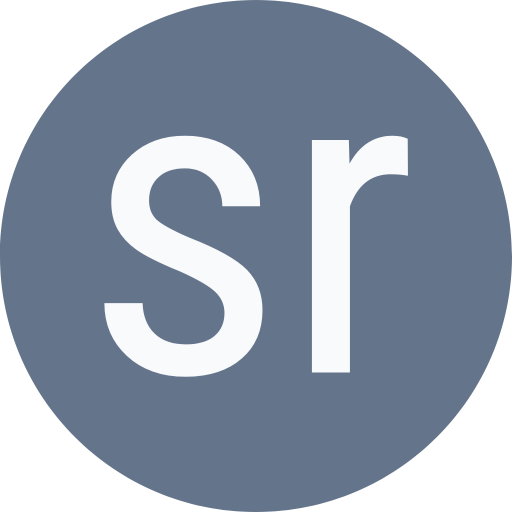
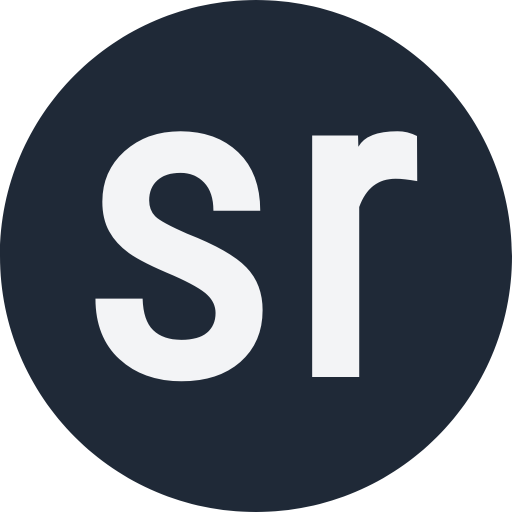
deploy: ba5cf00d9a8d961c558e314631d93ebb83569694

diff --git a/index.html b/index.html
@@ -9,7 +9,7 @@
 <meta name=keywords content="[Portfolio Sebastián Risco]">
 <link rel=canonical href=https://srisco.dev/>
 <link rel=alternate type=application/rss+xml href=/index.xml title=srisco.dev>
-<link type=text/css rel=stylesheet href=/css/schemes/cool-gray.min.f5af45aebd660d2d65c1b8c7e8b77217b06ec1193387c33ff17519a2ebd40be807b1db3cc9d62a7c23063adcc409c4afc68c8964781a113346af349a86215e9b.css integrity="sha512-9a9Frr1mDS1lwbjH6LdyF7BuwRkzh8M/8XUZouvUC+gHsds8ydYqfCMGOtzECcSvxoyJZHgaETNGrzSahiFemw==">
+<link type=text/css rel=stylesheet href=/css/schemes/cool-gray.min.1fa9cfe6ea431f51b6669ad59d531a840711f25edf67f90d0227253371e1da49fdcc25506150e39fb99ac2c95a6012b2c4bbdd6c41b841b186419cbd7e115768.css integrity="sha512-H6nP5upDH1G2ZprVnVMahAcR8l7fZ/kNAiclM3Hh2kn9zCVQYVDjn7mawslaYBKyxLvdbEG4QbGGQZy9fhFXaA==">
 <link type=text/css rel=stylesheet href=/css/compiled/main.min.c7290b6ac74545a6de646d08ba3464ec3c13dadadc7f19d2445e0ab22286078236df7c5645eaac6cb086d207f9f2e077c66fd9e542f30b735865adf01b858059.css integrity="sha512-xykLasdFRabeZG0IujRk7DwT2trcfxnSRF4KsiKGB4I233xWReqsbLCG0gf58uB3xm/Z5ULzC3NYZa3wG4WAWQ==">
 <link rel=apple-touch-icon sizes=180x180 href=/apple-touch-icon.png>
 <link rel=icon type=image/png sizes=32x32 href=/favicon-32x32.png>

diff --git a/publications/index.html b/publications/index.html
@@ -8,7 +8,7 @@
 <meta name=description content>
 <meta name=keywords content="[Portfolio Sebastián Risco]">
 <link rel=canonical href=https://srisco.dev/publications/>
-<link type=text/css rel=stylesheet href=/css/schemes/cool-gray.min.f5af45aebd660d2d65c1b8c7e8b77217b06ec1193387c33ff17519a2ebd40be807b1db3cc9d62a7c23063adcc409c4afc68c8964781a113346af349a86215e9b.css integrity="sha512-9a9Frr1mDS1lwbjH6LdyF7BuwRkzh8M/8XUZouvUC+gHsds8ydYqfCMGOtzECcSvxoyJZHgaETNGrzSahiFemw==">
+<link type=text/css rel=stylesheet href=/css/schemes/cool-gray.min.1fa9cfe6ea431f51b6669ad59d531a840711f25edf67f90d0227253371e1da49fdcc25506150e39fb99ac2c95a6012b2c4bbdd6c41b841b186419cbd7e115768.css integrity="sha512-H6nP5upDH1G2ZprVnVMahAcR8l7fZ/kNAiclM3Hh2kn9zCVQYVDjn7mawslaYBKyxLvdbEG4QbGGQZy9fhFXaA==">
 <link type=text/css rel=stylesheet href=/css/compiled/main.min.c7290b6ac74545a6de646d08ba3464ec3c13dadadc7f19d2445e0ab22286078236df7c5645eaac6cb086d207f9f2e077c66fd9e542f30b735865adf01b858059.css integrity="sha512-xykLasdFRabeZG0IujRk7DwT2trcfxnSRF4KsiKGB4I233xWReqsbLCG0gf58uB3xm/Z5ULzC3NYZa3wG4WAWQ==">
 <link rel=apple-touch-icon sizes=180x180 href=/apple-touch-icon.png>
 <link rel=icon type=image/png sizes=32x32 href=/favicon-32x32.png>

diff --git a/404.html b/404.html
@@ -8,7 +8,7 @@
 <meta name=description content>
 <meta name=keywords content="[Portfolio Sebastián Risco]">
 <link rel=canonical href=https://srisco.dev/404.html>
-<link type=text/css rel=stylesheet href=/css/schemes/cool-gray.min.f5af45aebd660d2d65c1b8c7e8b77217b06ec1193387c33ff17519a2ebd40be807b1db3cc9d62a7c23063adcc409c4afc68c8964781a113346af349a86215e9b.css integrity="sha512-9a9Frr1mDS1lwbjH6LdyF7BuwRkzh8M/8XUZouvUC+gHsds8ydYqfCMGOtzECcSvxoyJZHgaETNGrzSahiFemw==">
+<link type=text/css rel=stylesheet href=/css/schemes/cool-gray.min.1fa9cfe6ea431f51b6669ad59d531a840711f25edf67f90d0227253371e1da49fdcc25506150e39fb99ac2c95a6012b2c4bbdd6c41b841b186419cbd7e115768.css integrity="sha512-H6nP5upDH1G2ZprVnVMahAcR8l7fZ/kNAiclM3Hh2kn9zCVQYVDjn7mawslaYBKyxLvdbEG4QbGGQZy9fhFXaA==">
 <link type=text/css rel=stylesheet href=/css/compiled/main.min.c7290b6ac74545a6de646d08ba3464ec3c13dadadc7f19d2445e0ab22286078236df7c5645eaac6cb086d207f9f2e077c66fd9e542f30b735865adf01b858059.css integrity="sha512-xykLasdFRabeZG0IujRk7DwT2trcfxnSRF4KsiKGB4I233xWReqsbLCG0gf58uB3xm/Z5ULzC3NYZa3wG4WAWQ==">
 <link rel=apple-touch-icon sizes=180x180 href=/apple-touch-icon.png>
 <link rel=icon type=image/png sizes=32x32 href=/favicon-32x32.png>

diff --git a/about/index.html b/about/index.html
@@ -8,7 +8,7 @@
 <meta name=description content>
 <meta name=keywords content="[Portfolio Sebastián Risco]">
 <link rel=canonical href=https://srisco.dev/about/>
-<link type=text/css rel=stylesheet href=/css/schemes/cool-gray.min.f5af45aebd660d2d65c1b8c7e8b77217b06ec1193387c33ff17519a2ebd40be807b1db3cc9d62a7c23063adcc409c4afc68c8964781a113346af349a86215e9b.css integrity="sha512-9a9Frr1mDS1lwbjH6LdyF7BuwRkzh8M/8XUZouvUC+gHsds8ydYqfCMGOtzECcSvxoyJZHgaETNGrzSahiFemw==">
+<link type=text/css rel=stylesheet href=/css/schemes/cool-gray.min.1fa9cfe6ea431f51b6669ad59d531a840711f25edf67f90d0227253371e1da49fdcc25506150e39fb99ac2c95a6012b2c4bbdd6c41b841b186419cbd7e115768.css integrity="sha512-H6nP5upDH1G2ZprVnVMahAcR8l7fZ/kNAiclM3Hh2kn9zCVQYVDjn7mawslaYBKyxLvdbEG4QbGGQZy9fhFXaA==">
 <link type=text/css rel=stylesheet href=/css/compiled/main.min.c7290b6ac74545a6de646d08ba3464ec3c13dadadc7f19d2445e0ab22286078236df7c5645eaac6cb086d207f9f2e077c66fd9e542f30b735865adf01b858059.css integrity="sha512-xykLasdFRabeZG0IujRk7DwT2trcfxnSRF4KsiKGB4I233xWReqsbLCG0gf58uB3xm/Z5ULzC3NYZa3wG4WAWQ==">
 <link rel=apple-touch-icon sizes=180x180 href=/apple-touch-icon.png>
 <link rel=icon type=image/png sizes=32x32 href=/favicon-32x32.png>

diff --git a/css/schemes/cool-gray.min.1fa9cfe6ea431f51b6669ad59d531a840711f25edf67f90d0227253371e1da49fdcc25506150e39fb99ac2c95a6012b2c4bbdd6c41b841b186419cbd7e115768.css b/css/schemes/cool-gray.min.1fa9cfe6ea431f51b6669ad59d531a840711f25edf67f90d0227253371e1da49fdcc25506150e39fb99ac2c95a6012b2c4bbdd6c41b841b186419cbd7e115768.css
@@ -1,0 +1,1 @@
+:root{--color-neutral:#fff;--color-neutral-50:#F9FAFB;--color-neutral-100:#F3F4F6;--color-neutral-200:#E5E7EB;--color-neutral-300:#D1D5DB;--color-neutral-400:#9CA3AF;--color-neutral-500:#6B7280;--color-neutral-600:#4B5563;--color-neutral-700:#374151;--color-neutral-800:#1F2937;--color-neutral-900:#111827;--color-primary-50:#F9FAFB;--color-primary-100:#F3F4F6;--color-primary-200:#E5E7EB;--color-primary-300:#D1D5DB;--color-primary-400:#9CA3AF;--color-primary-500:#6B7280;--color-primary-600:#4B5563;--color-primary-700:#374151;--color-primary-800:#1F2937;--color-primary-900:#111827;--color-secondary-50:#F9FAFB;--color-secondary-100:#F3F4F6;--color-secondary-200:#E5E7EB;--color-secondary-300:#D1D5DB;--color-secondary-400:#9CA3AF;--color-secondary-500:#6B7280;--color-secondary-600:#4B5563;--color-secondary-700:#374151;--color-secondary-800:#1F2937;--color-secondary-900:#111827}
